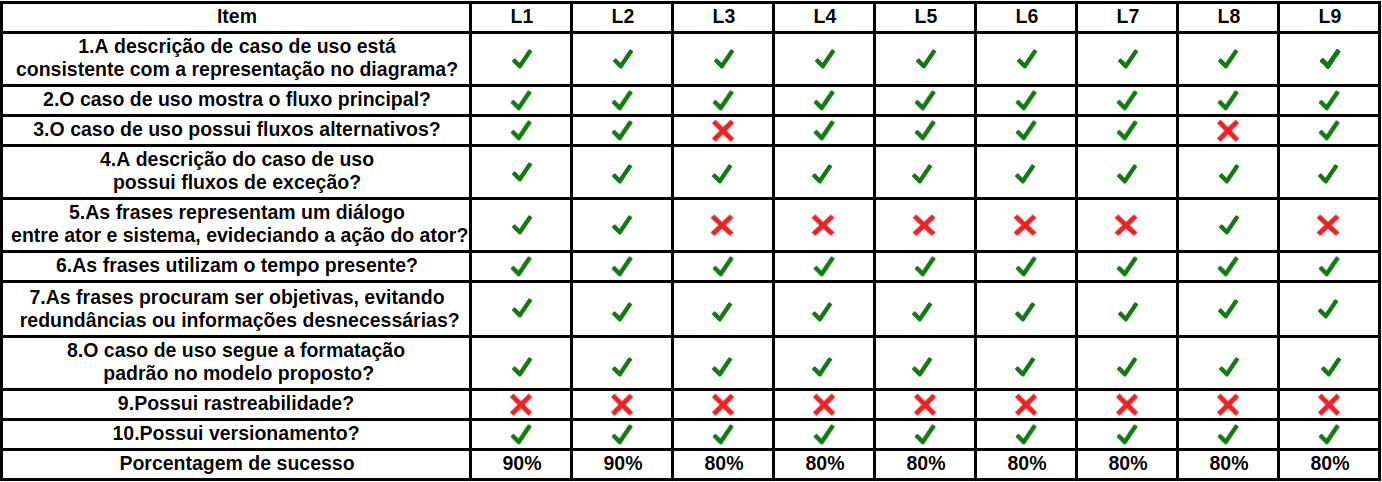
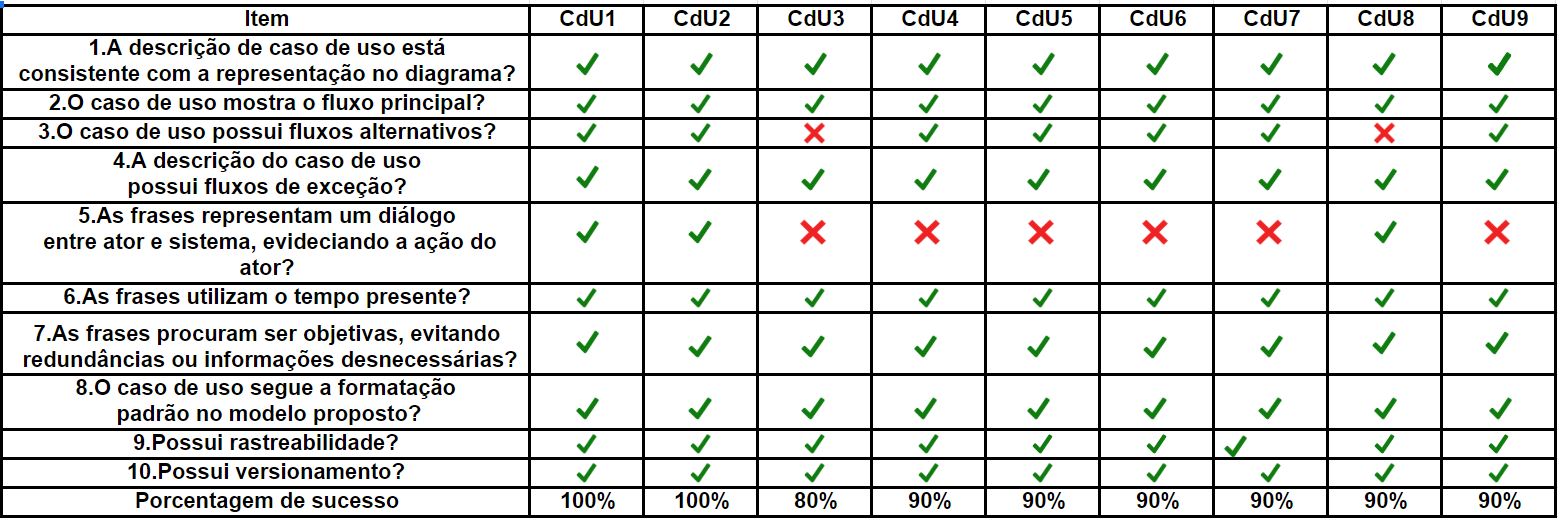
Verificação Casos de Uso

diff --git a/docs/verificacao_casos_de_uso.md b/docs/verificacao_casos_de_uso.md
@@ -10,25 +10,26 @@
 
 ## Observações
 
-| Caso de Uso | Observações |
-| :-------: | ----------- |
-|  Todos  | - Revisar todos os léxicos e adicionar rastreabilidade aonde se prova necessário|
-|   CDU3    | - Adicionar fluxo alternativo e evidenciar o sistema |
-|   CDU4    | - Evidenciar o sistema |
-|   CDU5    | - Evidenciar o sistema |
-|   CDU6    | - Evidenciar o sistema |
-|   CDU7    | - Evidenciar o sistema |
-|   CDU8    | - Adicionar fluxo alternativo |
-|   CDU9    | - Evidenciar o sistema |
+| Caso de Uso | Observações                                                                      |
+| :---------: | -------------------------------------------------------------------------------- |
+|    Todos    | - Revisar todos os léxicos e adicionar rastreabilidade aonde se prova necessário |
+|    CDU3     | - Adicionar fluxo alternativo e evidenciar o sistema                             |
+|    CDU4     | - Evidenciar o sistema                                                           |
+|    CDU5     | - Evidenciar o sistema                                                           |
+|    CDU6     | - Evidenciar o sistema                                                           |
+|    CDU7     | - Evidenciar o sistema                                                           |
+|    CDU8     | - Adicionar fluxo alternativo                                                    |
+|    CDU9     | - Evidenciar o sistema                                                           |
 
 ## Conclusão
 
 <p align="justify">&emsp;&emsp;Pela análise feita a partir dos checkLists, os modelos gerados pelo grupo para o Audible ficaram bons. A falha mais notável nos modelos foi a falta de rastreabilidade, juntamente com alguns casos em que não havia um sistema dialogando com o ator. As causas prováveis são: questões de tempo, atenção ou alinhamento com os outros membros.</p>
 
 ## Autores
-| Nome | Função |
-| ---- | ------ |
-| Thallys Braz | Autor, Inspetor |
+
+| Nome          | Função           |
+| ------------- | ---------------- |
+| Thallys Braz  | Autor, Inspetor  |
 | André Goretti | Leitor, Inspetor |
 
 ## Referências
@@ -39,7 +40,8 @@
 
 ## Versionamento
 
-| Data | Versão | Descrição | Autor |
-| ---- | ------ | --------- | ----- |
-| 04/11/2019 | 1.0 | Adicionando Verificação | [Ian Rocha](https://github.com/IanPSRocha) |
-| 04/11/2019 | 1.1 | Atualizando quadro | [Murilo Loiola](https://github.com/murilo-dan) |
+| Data       | Versão | Descrição               | Autor                                          |
+| ---------- | ------ | ----------------------- | ---------------------------------------------- |
+| 04/11/2019 | 1.0    | Adicionando Verificação | [Ian Rocha](https://github.com/IanPSRocha)     |
+| 04/11/2019 | 1.1    | Atualizando quadro      | [Murilo Loiola](https://github.com/murilo-dan) |
+| 25/11/2019 | 1.2    | Atualizando quadro      | [Thallys Braz](https://github.com/thallysbraz) |
